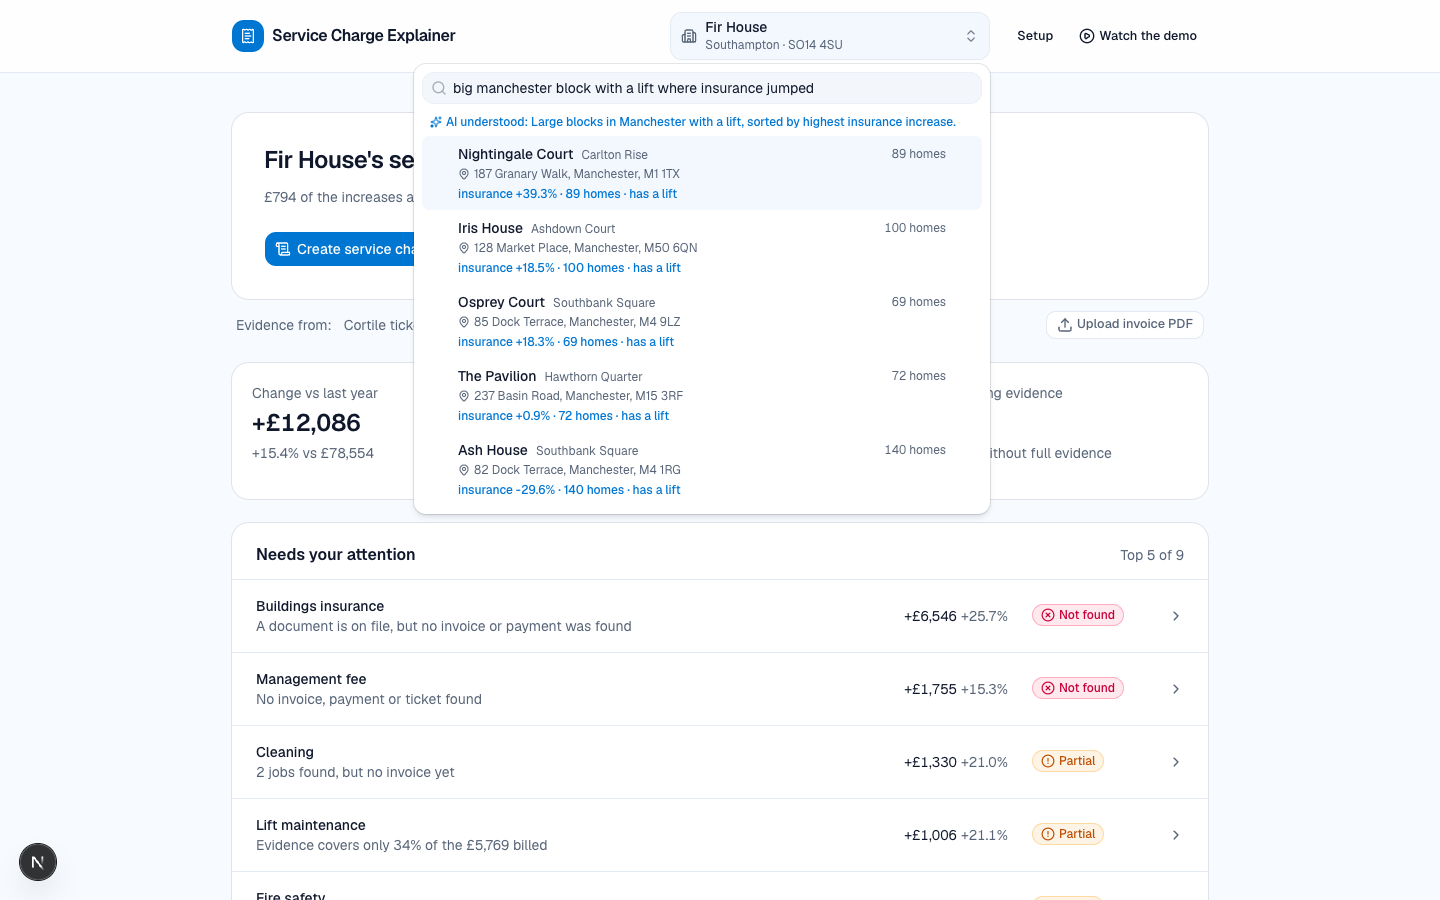
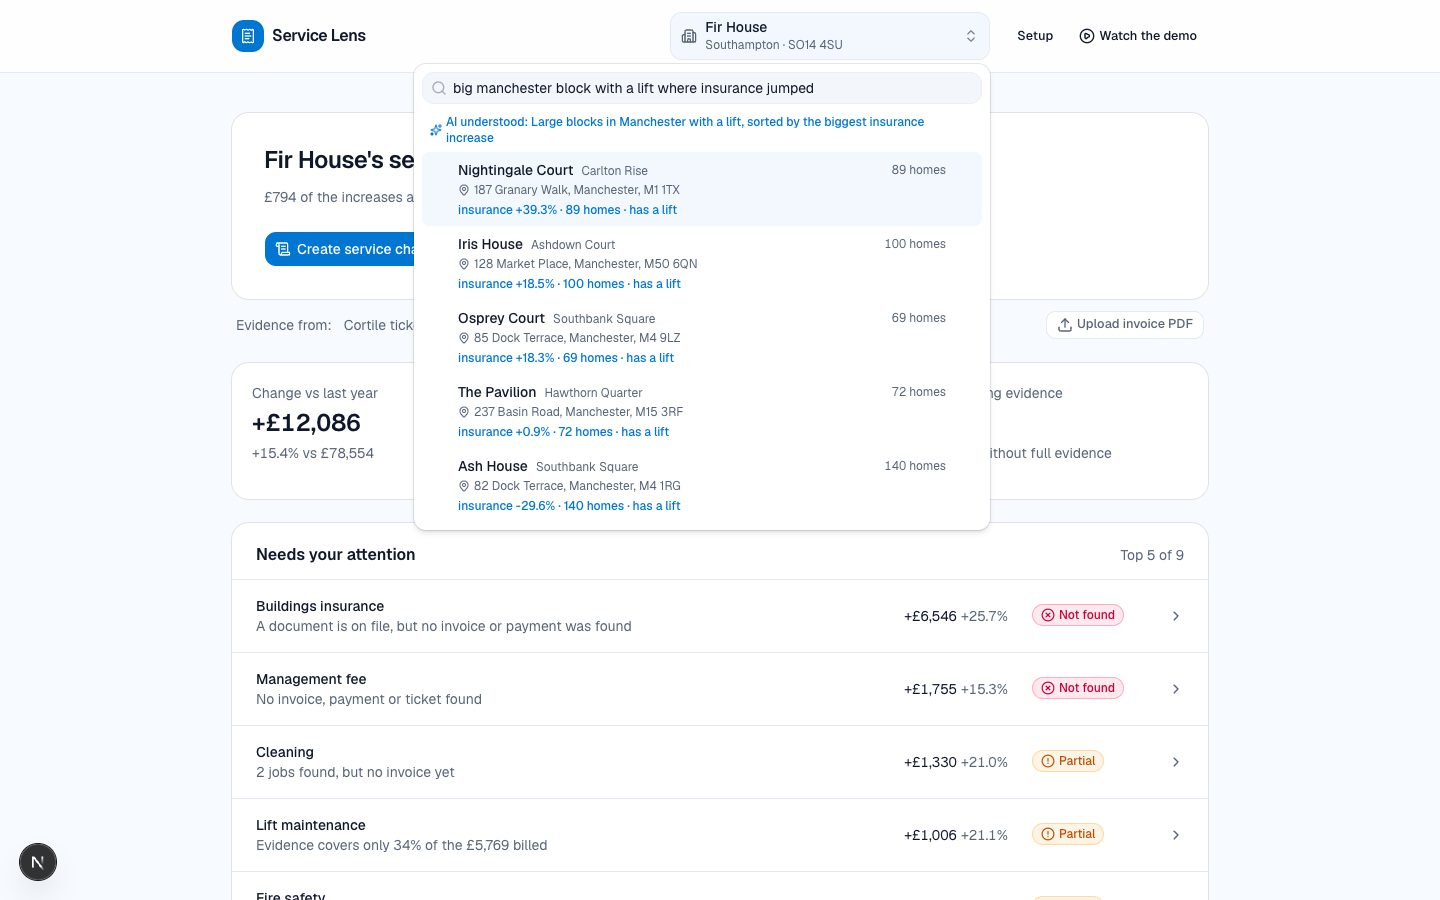
Rename product to Service Lens

diff --git a/src/components/landing/sections.tsx b/src/components/landing/sections.tsx
@@ -84,7 +84,7 @@ export function Hero() {
         <Reveal delay={0.05}>
           <div className="mt-6 grid gap-8 md:grid-cols-12 md:items-end">
             <Body className="md:col-span-7 md:text-lg md:leading-8">
-              Service Charge Explainer traces every line of a building’s bill to
+              Service Lens traces every line of a building’s bill to
               the maintenance tickets, contractor invoices and bank payments
               behind it — and tells you plainly where the evidence is missing.
             </Body>
@@ -335,7 +335,7 @@ export function Numbers() {
             <div className="md:col-span-6">
               <Eyebrow>Return on cost</Eyebrow>
               <SectionTitle>
-                Hire another manager, or use Service Charge Explainer.
+                Hire another manager, or use Service Lens.
               </SectionTitle>
             </div>
             <Body className="md:col-span-5 md:col-start-8 md:self-end">
@@ -362,7 +362,7 @@ export function Numbers() {
             </div>
             <div className="bg-accent/50 p-6 md:p-8">
               <p className="text-sm text-muted-foreground">
-                Service Charge Explainer for 2,000 units
+                Service Lens for 2,000 units
               </p>
               <p className="mt-2 text-4xl font-semibold tracking-tight text-primary tabular-nums">
                 £12,000

diff --git a/src/lib/letters.ts b/src/lib/letters.ts
@@ -357,7 +357,7 @@ export async function renderLetterPdf({ r, req, unit }: PdfInput) {
   const pdf = await PDFDocument.create();
   pdf.setTitle(`Service charge statement - ${r.building.name}`);
   pdf.setAuthor("Block Management Team");
-  pdf.setCreator("Service Charge Explainer");
+  pdf.setCreator("Service Lens");
   const font = await pdf.embedFont(StandardFonts.Helvetica);
   const bold = await pdf.embedFont(StandardFonts.HelveticaBold);
   const d = new Doc(pdf, font, bold);
@@ -702,7 +702,7 @@ export async function renderLetterPdf({ r, req, unit }: PdfInput) {
       color: RULE,
     });
     const foot = sanitize(
-      `Page ${i + 1} of ${N} · Generated ${fmtDate(today)} · Figures traced to evidence by Service Charge Explainer`,
+      `Page ${i + 1} of ${N} · Generated ${fmtDate(today)} · Figures traced to evidence by Service Lens`,
     );
     p.drawText(foot, {
       x: (PAGE_W - font.widthOfTextAtSize(foot, 7.5)) / 2,

diff --git a/src/components/landing/calculator.tsx b/src/components/landing/calculator.tsx
@@ -65,7 +65,7 @@ const fields: Field[] = [
   },
   {
     key: "saved",
-    label: "Time saved by Service Charge Explainer on that work",
+    label: "Time saved by Service Lens on that work",
     step: 5,
     suffix: "%",
     basis: "Assumption",
@@ -103,7 +103,7 @@ export function RoiCalculator() {
   const outputs = [
     { label: "Managers needed", value: one.format(managers) },
     { label: "Cost of this work today", value: `${gbp.format(costToday)}/yr` },
-    { label: "Service Charge Explainer", value: `${gbp.format(ourCost)}/yr` },
+    { label: "Service Lens", value: `${gbp.format(ourCost)}/yr` },
     {
       label: "Staff time saved",
       value: `${gbp.format(timeSaved)}/yr`,

diff --git a/src/components/onboarding/onboarding.tsx b/src/components/onboarding/onboarding.tsx
@@ -166,7 +166,7 @@ export function Onboarding() {
             <span className="flex size-7 items-center justify-center rounded-lg bg-primary text-primary-foreground">
               <Receipt className="size-4" />
             </span>
-            <span className="hidden sm:inline">Service Charge Explainer</span>
+            <span className="hidden sm:inline">Service Lens</span>
           </Link>
           <span className="ml-auto text-xs text-muted-foreground tabular-nums md:hidden">
             Step {index + 1} of {STEPS.length}

diff --git a/src/app/layout.tsx b/src/app/layout.tsx
@@ -15,8 +15,8 @@ const geistMono = Geist_Mono({
 });
 
 export const metadata: Metadata = {
-  title: "Real Estate GB",
-  description: "Explore and analyse the Great Britain property market.",
+  title: "Service Lens",
+  description: "Trace every service charge line to evidence and explain it in plain English.",
 };
 
 export default function RootLayout({ children }: LayoutProps<"/">) {

diff --git a/src/components/explainer/explainer.tsx b/src/components/explainer/explainer.tsx
@@ -124,7 +124,7 @@ function AppBar({
             <ReceiptText className="size-4" />
           </span>
           <span className="truncate font-semibold tracking-tight">
-            Service Charge Explainer
+            Service Lens
           </span>
         </Link>
         <nav className="flex items-center gap-1 text-sm sm:order-last">

diff --git a/src/app/letters/page.tsx b/src/app/letters/page.tsx
@@ -1,7 +1,7 @@
 import { Suspense } from "react";
 import { LetterWizard } from "@/components/letters/letter-wizard";
 
-export const metadata = { title: "Create service charge letter" };
+export const metadata = { title: "Create service charge letter · Service Lens" };
 
 export default function LettersPage() {
   return (

diff --git a/src/app/page.tsx b/src/app/page.tsx
@@ -14,7 +14,7 @@ import {
 } from "@/components/landing/sections";
 
 export const metadata: Metadata = {
-  title: "Service Charge Explainer",
+  title: "Service Lens",
   description:
     "Trace every service-charge bill line to tickets, invoices and bank payments, and reply to leaseholders in plain English.",
 };

diff --git a/src/app/onboarding/page.tsx b/src/app/onboarding/page.tsx
@@ -3,7 +3,7 @@ import type { Metadata } from "next";
 import { Onboarding } from "@/components/onboarding/onboarding";
 
 export const metadata: Metadata = {
-  title: "Get started · Service Charge Explainer",
+  title: "Get started · Service Lens",
 };
 
 export default function OnboardingPage() {

diff --git a/src/components/landing/wordmark.tsx b/src/components/landing/wordmark.tsx
@@ -30,7 +30,7 @@ export function Wordmark({ className }: { className?: string }) {
           strokeLinejoin="round"
         />
       </svg>
-      Service Charge Explainer
+      Service Lens
     </span>
   );
 }

diff --git a/README.md b/README.md
@@ -1,8 +1,8 @@
-# Service Charge Explainer
+# Service Lens
 
 **Answer "why did my service charge go up?" with evidence, not guesswork.**
 
-Service Charge Explainer is for UK block managers. It traces every line of a building's
+Service Lens is for UK block managers. It traces every line of a building's
 service-charge bill to the evidence behind it: maintenance tickets, contractor invoices,
 payments from the client bank account and documents. It shows clearly where evidence
 is missing. It then writes the reply to the leaseholder, or issues a full service-charge
